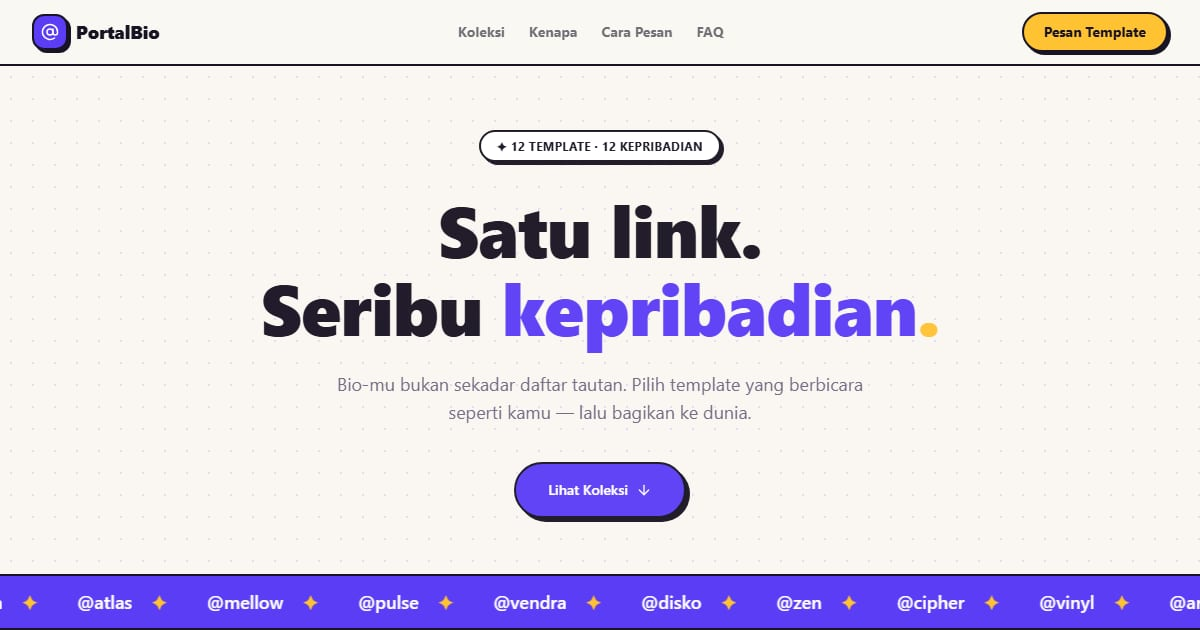
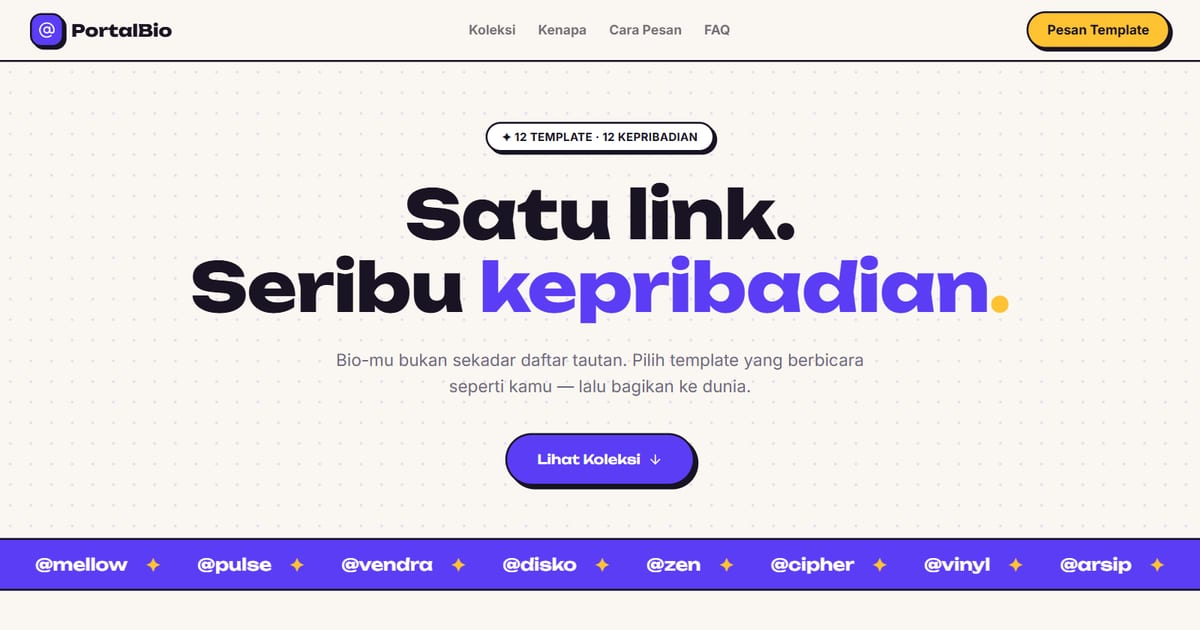
Perbarui etalase: pratinjau, deskripsi, dan halaman dalam 12 varian
Pratinjau PNG lama diganti tangkapan 4:5 dari demo live; deskripsi
mengikuti isi baru tiap varian, dan setiap kartu menampilkan daftar
halaman dalamnya. Font Unbounded kini benar-benar tampil (variabel
next/font dipindah ke <html>). Kontras tag dan teks kaki dinaikkan
(axe bersih); empat gambar tak terpakai dibuang; og.jpg baru.

Changed region(s): [[0.0, 0.181, 1.0, 1.0], [0.0, 0.0, 1.0, 0.1206], [0.37, 0.0302, 0.6167, 0.0603]]

diff --git a/app/components/templates-data.js b/app/components/templates-data.js
@@ -1,98 +1,16 @@
+// 12 template link-in-bio. Deskripsi dan halaman dalam mengikuti isi tiap template (1 Okt 2026);
+// pratinjau 4:5 ditangkap dari demo live di lebar ponsel.
 export const templates = [
-  {
-    url: "https://linkinbio-nova.vercel.app",
-    name: "Nova",
-    description: "Aurora glass gelap untuk creative technologist — avatar ring berpendar & link bernomor",
-    image: "/images/pb1.png",
-    category: "Kreator",
-    tags: ["Dark", "Glass", "Premium"]
-  },
-  {
-    url: "https://linkinbio-atlas.vercel.app",
-    name: "Atlas",
-    description: "Kartu nama split-screen bergaya Swiss untuk studio & konsultan — index 01–05 yang tegas",
-    image: "/images/pb2.png",
-    category: "Bisnis",
-    tags: ["Swiss", "Studio", "Minimal"]
-  },
-  {
-    url: "https://linkinbio-mellow.vercel.app",
-    name: "Mellow",
-    description: "Papan stiker pastel untuk ilustrator — pill miring, lembut, dan menggemaskan",
-    image: "/images/pb3.png",
-    category: "Kreator",
-    tags: ["Pastel", "Playful", "Ilustrasi"]
-  },
-  {
-    url: "https://linkinbio-pulse.vercel.app",
-    name: "Pulse",
-    description: "Baris link tipografi raksasa neon untuk motion designer — berdenyut saat disentuh",
-    image: "/images/pb4.png",
-    category: "Kreator",
-    tags: ["Neon", "Motion", "Bold"]
-  },
-  {
-    url: "https://linkinbio-vendra.vercel.app",
-    name: "Vendra",
-    description: "Etalase kedai kopi — status buka real-time, menu favorit, dan tombol pesan GoFood/WA",
-    image: "/images/pb5.png",
-    category: "Bisnis",
-    tags: ["UMKM", "Kafe", "Storefront"]
-  },
-  {
-    url: "https://linkinbio-disko.vercel.app",
-    name: "Disko",
-    description: "Poster gig memphis untuk band & DJ — equalizer beranimasi dan kartu warna pop",
-    image: "/images/pb6.png",
-    category: "Musik",
-    tags: ["Memphis", "Band", "Retro-pop"]
-  },
-  {
-    url: "https://linkinbio-zen.vercel.app",
-    name: "Zen",
-    description: "Ruang teduh serif untuk coach & mindfulness — enso bernapas dan daftar numeral romawi",
-    image: "/images/pb7.png",
-    category: "Lifestyle",
-    tags: ["Minimal", "Serif", "Tenang"]
-  },
-  {
-    url: "https://linkinbio-cipher.vercel.app",
-    name: "Cipher",
-    description: "Terminal hacker sungguhan — whoami mengetik sendiri dan tautan bergaya ls -la",
-    image: "/images/pb8.png",
-    category: "Teknologi",
-    tags: ["Terminal", "CRT", "Developer"]
-  },
-  {
-    url: "https://linkinbio-vinyl.vercel.app",
-    name: "Vinyl",
-    description: "Piringan hitam berputar untuk musisi — now playing bar dan tracklist Side A/B",
-    image: "/images/pb9.png",
-    category: "Musik",
-    tags: ["Musisi", "Vinyl", "Elegan"]
-  },
-  {
-    url: "https://linkinbio-arsip.vercel.app",
-    name: "Arsip",
-    description: "Surat vintage untuk penulis — kertas bergaris, perangko, stempel, dan lampiran",
-    image: "/images/pb10.png",
-    category: "Kreator",
-    tags: ["Vintage", "Typewriter", "Penulis"]
-  },
-  {
-    url: "https://linkinbio-jajan.vercel.app",
-    name: "Jajan",
-    description: "Papan menu warung — harga bertitik-titik, badge LARIS, dan papan BUKA bergoyang",
-    image: "/images/pb11.png",
-    category: "Bisnis",
-    tags: ["Kuliner", "UMKM", "Ceria"]
-  },
-  {
-    url: "https://linkinbio-kaset.vercel.app",
-    name: "Kaset",
-    description: "Mixtape analog untuk radio & kolektif musik — reel berputar dengan link Side A/B",
-    image: "/images/pb12.png",
-    category: "Musik",
-    tags: ["Analog", "Radio", "70s"]
-  }
+  { url: "https://linkinbio-nova.vercel.app", name: "Nova", description: "Aurora gelap untuk creative technologist — studi kasus bernomor dan halaman kolaborasi bertarif.", halaman: ["/karya", "/kolaborasi"], image: "/images/bio/nova.webp", category: "Kreator", tags: ["Dark", "Glass", "Portofolio"] },
+  { url: "https://linkinbio-atlas.vercel.app", name: "Atlas", description: "Kartu nama split-screen bergaya Swiss — indeks karya, layanan berharga tetap, dan pemilih slot pertemuan.", halaman: ["/karya", "/layanan"], image: "/images/bio/atlas.webp", category: "Bisnis", tags: ["Swiss", "Studio", "Booking"] },
+  { url: "https://linkinbio-mellow.vercel.app", name: "Mellow", description: "Papan stiker pastel untuk ilustrator — toko sticker berkeranjang dan komisi dengan estimasi harga langsung.", halaman: ["/toko", "/komisi"], image: "/images/bio/mellow.webp", category: "Kreator", tags: ["Pastel", "Toko", "Komisi"] },
+  { url: "https://linkinbio-pulse.vercel.app", name: "Pulse", description: "Tautan tipografi neon untuk motion designer — lembar cue showreel yang bisa digeser dan rate card.", halaman: ["/showreel", "/hire"], image: "/images/bio/pulse.webp", category: "Kreator", tags: ["Neon", "Motion", "Rate card"] },
+  { url: "https://linkinbio-vendra.vercel.app", name: "Vendra", description: "Etalase kedai kopi — status buka menurut jam WIB, menu lengkap, dan pre-order dengan jam ambil.", halaman: ["/menu", "/pesan"], image: "/images/bio/vendra.webp", category: "Bisnis", tags: ["Kafe", "Pre-order", "UMKM"] },
+  { url: "https://linkinbio-disko.vercel.app", name: "Disko", description: "Poster Memphis untuk band — tur enam kota dengan pemilih tiket dan merch berstok per ukuran.", halaman: ["/jadwal", "/merch"], image: "/images/bio/disko.webp", category: "Musik", tags: ["Memphis", "Tiket", "Merch"] },
+  { url: "https://linkinbio-zen.vercel.app", name: "Zen", description: "Ruang teduh serif untuk coach mindfulness — kelas, retret, dan pemandu napas interaktif.", halaman: ["/kelas", "/napas"], image: "/images/bio/zen.webp", category: "Lifestyle", tags: ["Minimal", "Serif", "Interaktif"] },
+  { url: "https://linkinbio-cipher.vercel.app", name: "Cipher", description: "Terminal CRT untuk peneliti keamanan — writeup CTF, kebijakan pengungkapan, dan talks.", halaman: ["/writeups", "/talks"], image: "/images/bio/cipher.webp", category: "Teknologi", tags: ["Terminal", "CRT", "Developer"] },
+  { url: "https://linkinbio-vinyl.vercel.app", name: "Vinyl", description: "Piringan berputar untuk musisi — album dengan penggalan lirik, tur akustik, dan pengingat tiket.", halaman: ["/album", "/tur"], image: "/images/bio/vinyl.webp", category: "Musik", tags: ["Musisi", "Album", "Tur"] },
+  { url: "https://linkinbio-arsip.vercel.app", name: "Arsip", description: "Surat bergaris untuk penulis — buku dengan satu puisi utuh, surat Jumat, dan kelas menulis.", halaman: ["/buku", "/surat"], image: "/images/bio/arsip.webp", category: "Kreator", tags: ["Vintage", "Mesin ketik", "Penulis"] },
+  { url: "https://linkinbio-jajan.vercel.app", name: "Jajan", description: "Papan menu warung — buka/tutup menurut jam WIB, menu lengkap, dan PO acara dengan minimal H-2.", halaman: ["/menu", "/pesan"], image: "/images/bio/jajan.webp", category: "Bisnis", tags: ["Kuliner", "UMKM", "PO"] },
+  { url: "https://linkinbio-kaset.vercel.app", name: "Kaset", description: "Mixtape analog untuk radio komunitas — siaran berikutnya dihitung otomatis dan arsip bertracklist.", halaman: ["/siaran", "/mixtape"], image: "/images/bio/kaset.webp", category: "Musik", tags: ["Analog", "Radio", "Jadwal"] },
 ];

diff --git a/app/page.js b/app/page.js
@@ -146,9 +146,10 @@ export default function PortalBio() {
                       <span className="font-display text-xs text-ungu">@{t.name.toLowerCase()}</span>
                     </div>
                     <p className="mt-1.5 text-sm leading-relaxed text-mutedx">{t.description}</p>
+                    <p className="mt-2 font-mono text-[11px] text-ink/70">/ {t.halaman.map((h) => <span key={h}> · {h}</span>)}</p>
                     <div className="mt-3 flex flex-wrap items-center gap-1.5">
                       {t.tags.map((tag) => (
-                        <span key={tag} className="rounded-full bg-ink/5 px-2.5 py-1 text-[11px] font-semibold text-ink/60">{tag}</span>
+                        <span key={tag} className="rounded-full bg-ink/5 px-2.5 py-1 text-[11px] font-semibold text-ink/75">{tag}</span>
                       ))}
                     </div>
                     <a href={t.url} target="_blank" rel="noopener noreferrer" className="mt-4 inline-flex items-center gap-1.5 text-sm font-bold text-ungu underline-offset-4 hover:underline">
@@ -287,7 +288,7 @@ export default function PortalBio() {
             </ul>
           </div>
         </div>
-        <p className="mt-10 border-t border-kertas/10 pt-5 text-center text-xs text-kertas/40">
+        <p className="mt-10 border-t border-kertas/10 pt-5 text-center text-xs text-kertas/65">
           © {new Date().getFullYear()} PortalBio · bagian dari PintuWeb — 12 template, satu kamu.
         </p>
       </footer>

diff --git a/app/layout.js b/app/layout.js
@@ -40,8 +40,8 @@ export const metadata = {
 
 export default function RootLayout({ children }) {
   return (
-    <html lang="id">
-      <body className={`${unbounded.variable} ${inter.variable} antialiased`}>
+    <html lang="id" className={`${unbounded.variable} ${inter.variable}`}>
+      <body className="antialiased">
         <main>{children}</main>
       <script type="application/ld+json" dangerouslySetInnerHTML={{ __html: JSON.stringify(__jsonld) }} />
         </body>

diff --git a/README.md b/README.md
@@ -14,18 +14,18 @@ Katalog template link-in-bio. Neo-pop dengan font Unbounded, kartu berbingkai po
 
 ## Varian yang dipamerkan (12)
 
-- [Arsip Kata](https://linkinbio-arsip.vercel.app)
-- [Atlas Studio](https://linkinbio-atlas.vercel.app)
-- [cipher](https://linkinbio-cipher.vercel.app)
-- [DISKO PANDA](https://linkinbio-disko.vercel.app)
-- [Jajanan Bu Rina](https://linkinbio-jajan.vercel.app)
-- [KASET KITA](https://linkinbio-kaset.vercel.app)
-- [Mella](https://linkinbio-mellow.vercel.app)
-- [Nova Ardhana](https://linkinbio-nova.vercel.app)
-- [PULSE](https://linkinbio-pulse.vercel.app)
-- [Kopi Vendra](https://linkinbio-vendra.vercel.app)
-- [Laras](https://linkinbio-vinyl.vercel.app)
-- [Sena](https://linkinbio-zen.vercel.app)
+- [Arsip](https://linkinbio-arsip.vercel.app) — Kreator. Surat bergaris untuk penulis — buku dengan satu puisi utuh, surat Jumat, dan kelas menulis. Halaman: `/`, `/buku`, `/surat`.
+- [Atlas](https://linkinbio-atlas.vercel.app) — Bisnis. Kartu nama split-screen bergaya Swiss — indeks karya, layanan berharga tetap, dan pemilih slot pertemuan. Halaman: `/`, `/karya`, `/layanan`.
+- [Cipher](https://linkinbio-cipher.vercel.app) — Teknologi. Terminal CRT untuk peneliti keamanan — writeup CTF, kebijakan pengungkapan, dan talks. Halaman: `/`, `/writeups`, `/talks`.
+- [Disko](https://linkinbio-disko.vercel.app) — Musik. Poster Memphis untuk band — tur enam kota dengan pemilih tiket dan merch berstok per ukuran. Halaman: `/`, `/jadwal`, `/merch`.
+- [Jajan](https://linkinbio-jajan.vercel.app) — Bisnis. Papan menu warung — buka/tutup menurut jam WIB, menu lengkap, dan PO acara dengan minimal H-2. Halaman: `/`, `/menu`, `/pesan`.
+- [Kaset](https://linkinbio-kaset.vercel.app) — Musik. Mixtape analog untuk radio komunitas — siaran berikutnya dihitung otomatis dan arsip bertracklist. Halaman: `/`, `/siaran`, `/mixtape`.
+- [Mellow](https://linkinbio-mellow.vercel.app) — Kreator. Papan stiker pastel untuk ilustrator — toko sticker berkeranjang dan komisi dengan estimasi harga langsung. Halaman: `/`, `/toko`, `/komisi`.
+- [Nova](https://linkinbio-nova.vercel.app) — Kreator. Aurora gelap untuk creative technologist — studi kasus bernomor dan halaman kolaborasi bertarif. Halaman: `/`, `/karya`, `/kolaborasi`.
+- [Pulse](https://linkinbio-pulse.vercel.app) — Kreator. Tautan tipografi neon untuk motion designer — lembar cue showreel yang bisa digeser dan rate card. Halaman: `/`, `/showreel`, `/hire`.
+- [Vendra](https://linkinbio-vendra.vercel.app) — Bisnis. Etalase kedai kopi — status buka menurut jam WIB, menu lengkap, dan pre-order dengan jam ambil. Halaman: `/`, `/menu`, `/pesan`.
+- [Vinyl](https://linkinbio-vinyl.vercel.app) — Musik. Piringan berputar untuk musisi — album dengan penggalan lirik, tur akustik, dan pengingat tiket. Halaman: `/`, `/album`, `/tur`.
+- [Zen](https://linkinbio-zen.vercel.app) — Lifestyle. Ruang teduh serif untuk coach mindfulness — kelas, retret, dan pemandu napas interaktif. Halaman: `/`, `/kelas`, `/napas`.
 
 ## Halaman
 
@@ -38,6 +38,7 @@ Katalog template link-in-bio. Neo-pop dengan font Unbounded, kartu berbingkai po
 - JavaScript
 - Framer Motion, Lucide (ikon)
 - Font: Unbounded, Inter (next/font)
+- Pratinjau 4:5 tiap varian ditangkap dari demo live di lebar ponsel (1 Okt 2026), `public/images/bio/`
 - SEO: metadata per halaman, Open Graph, JSON-LD, sitemap.xml, dan robots.txt
 
 ## Menjalankan secara lokal
